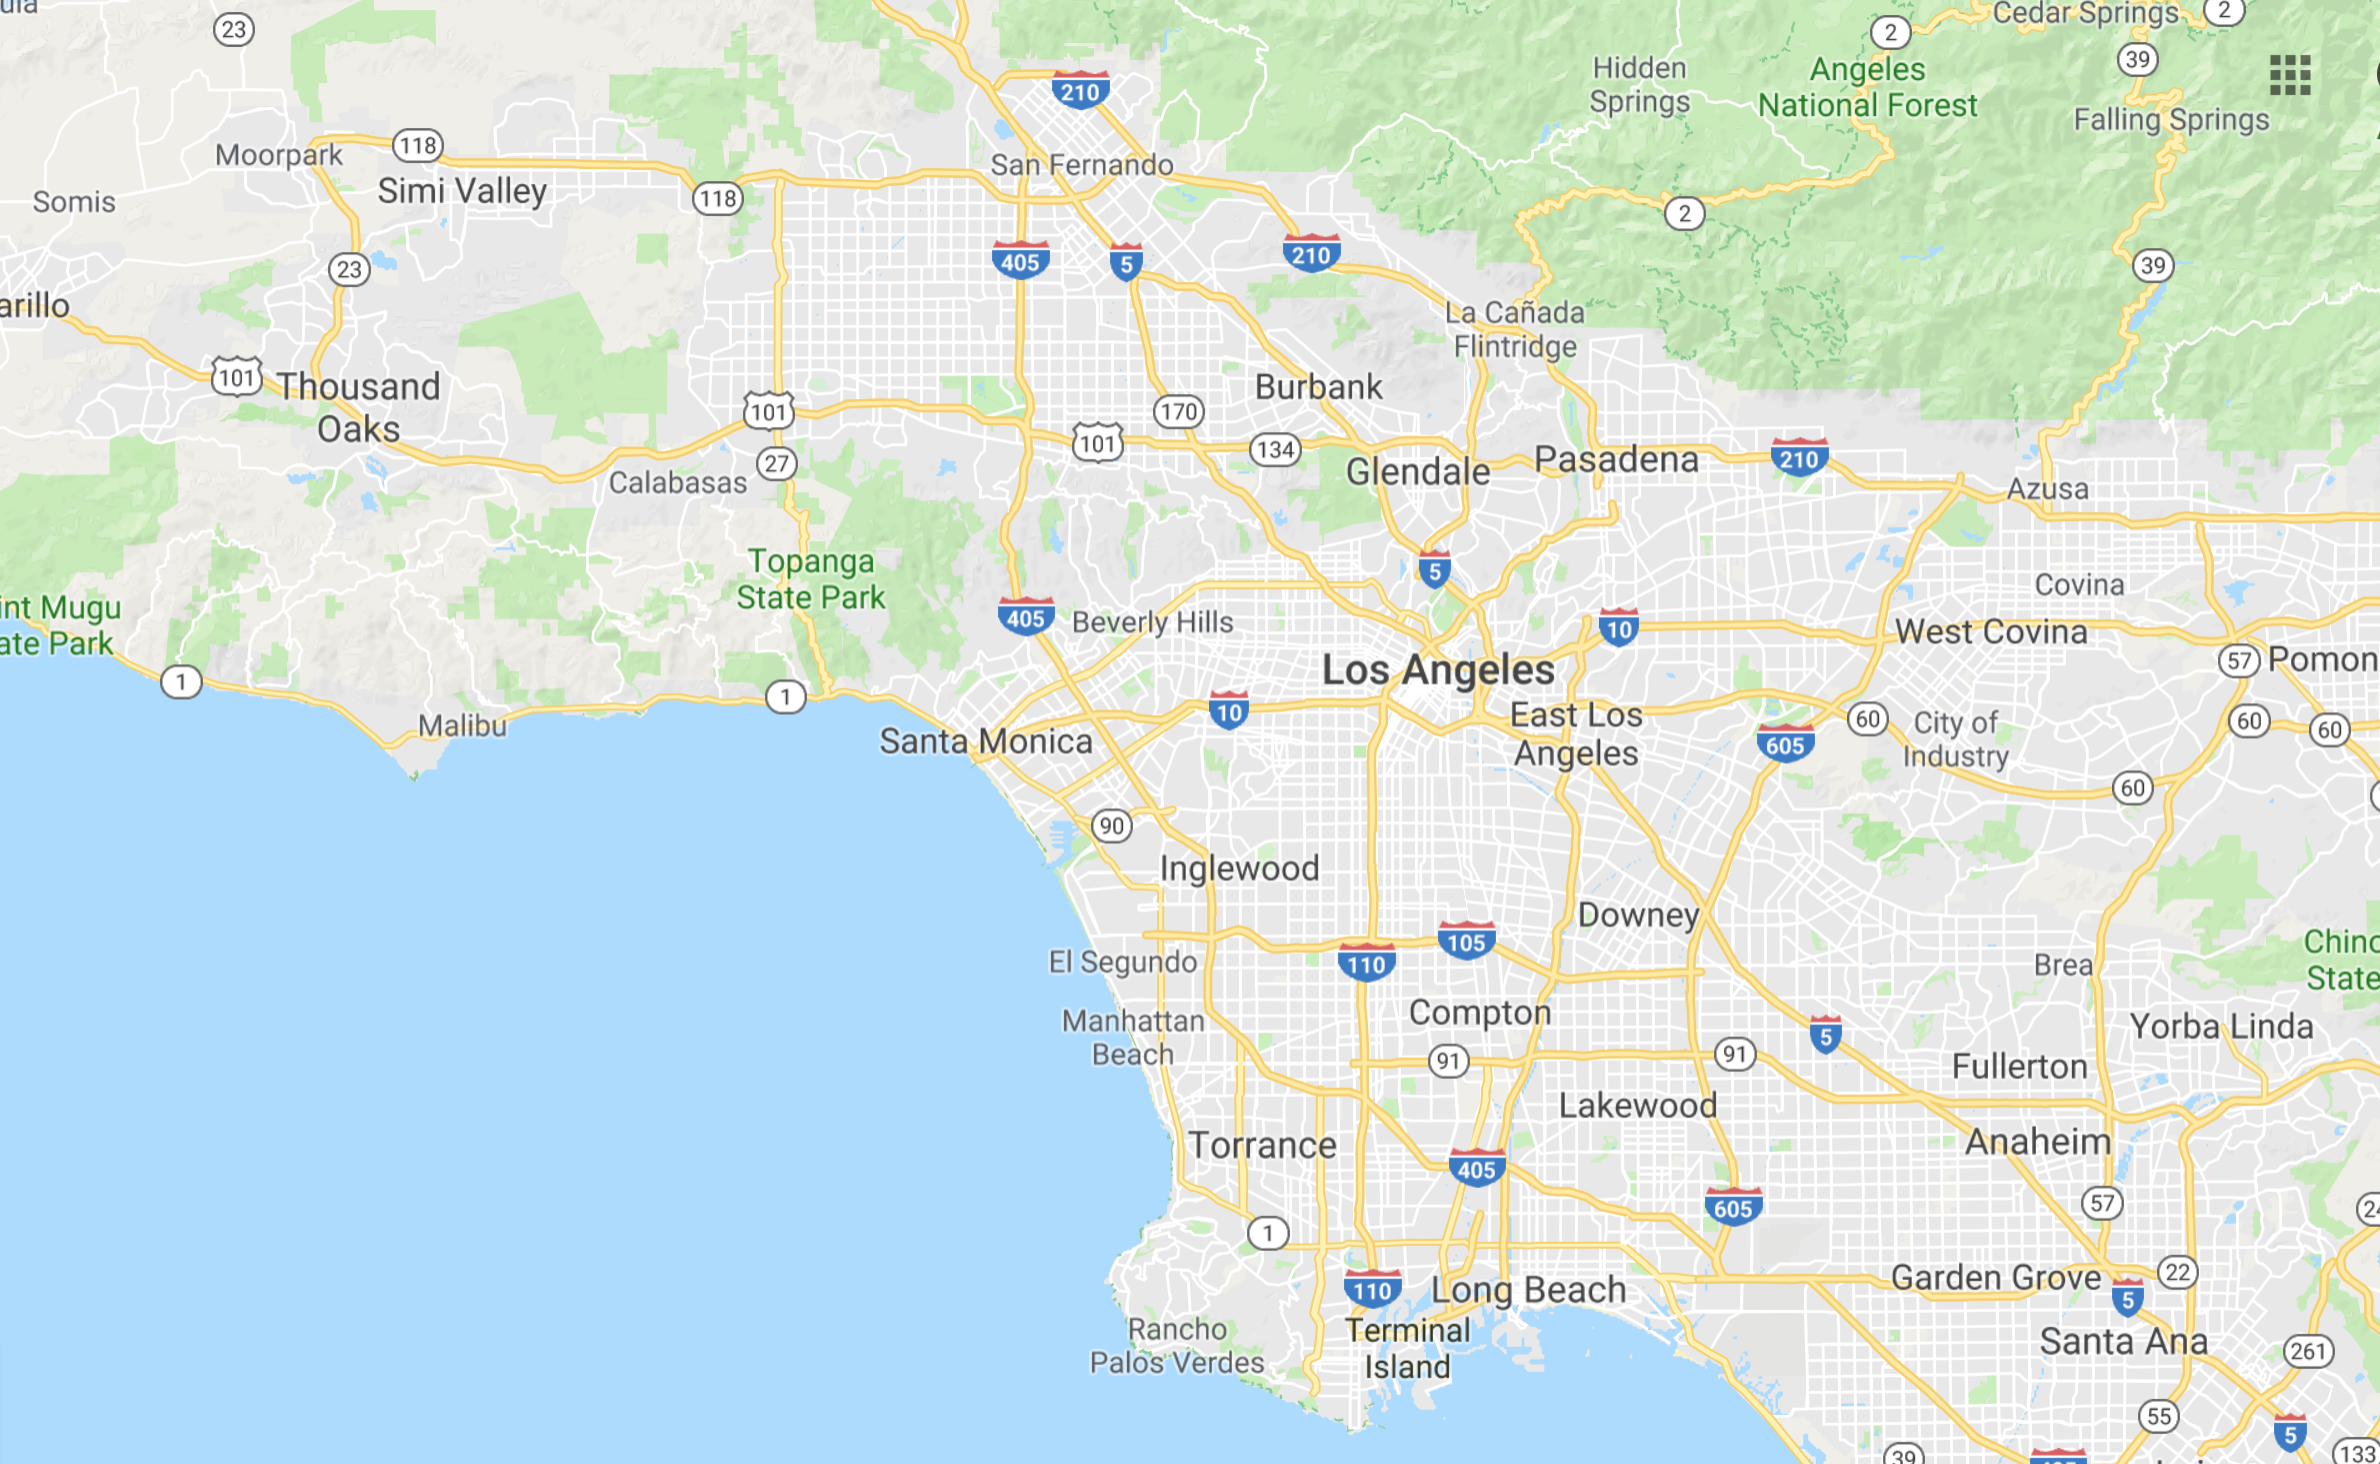
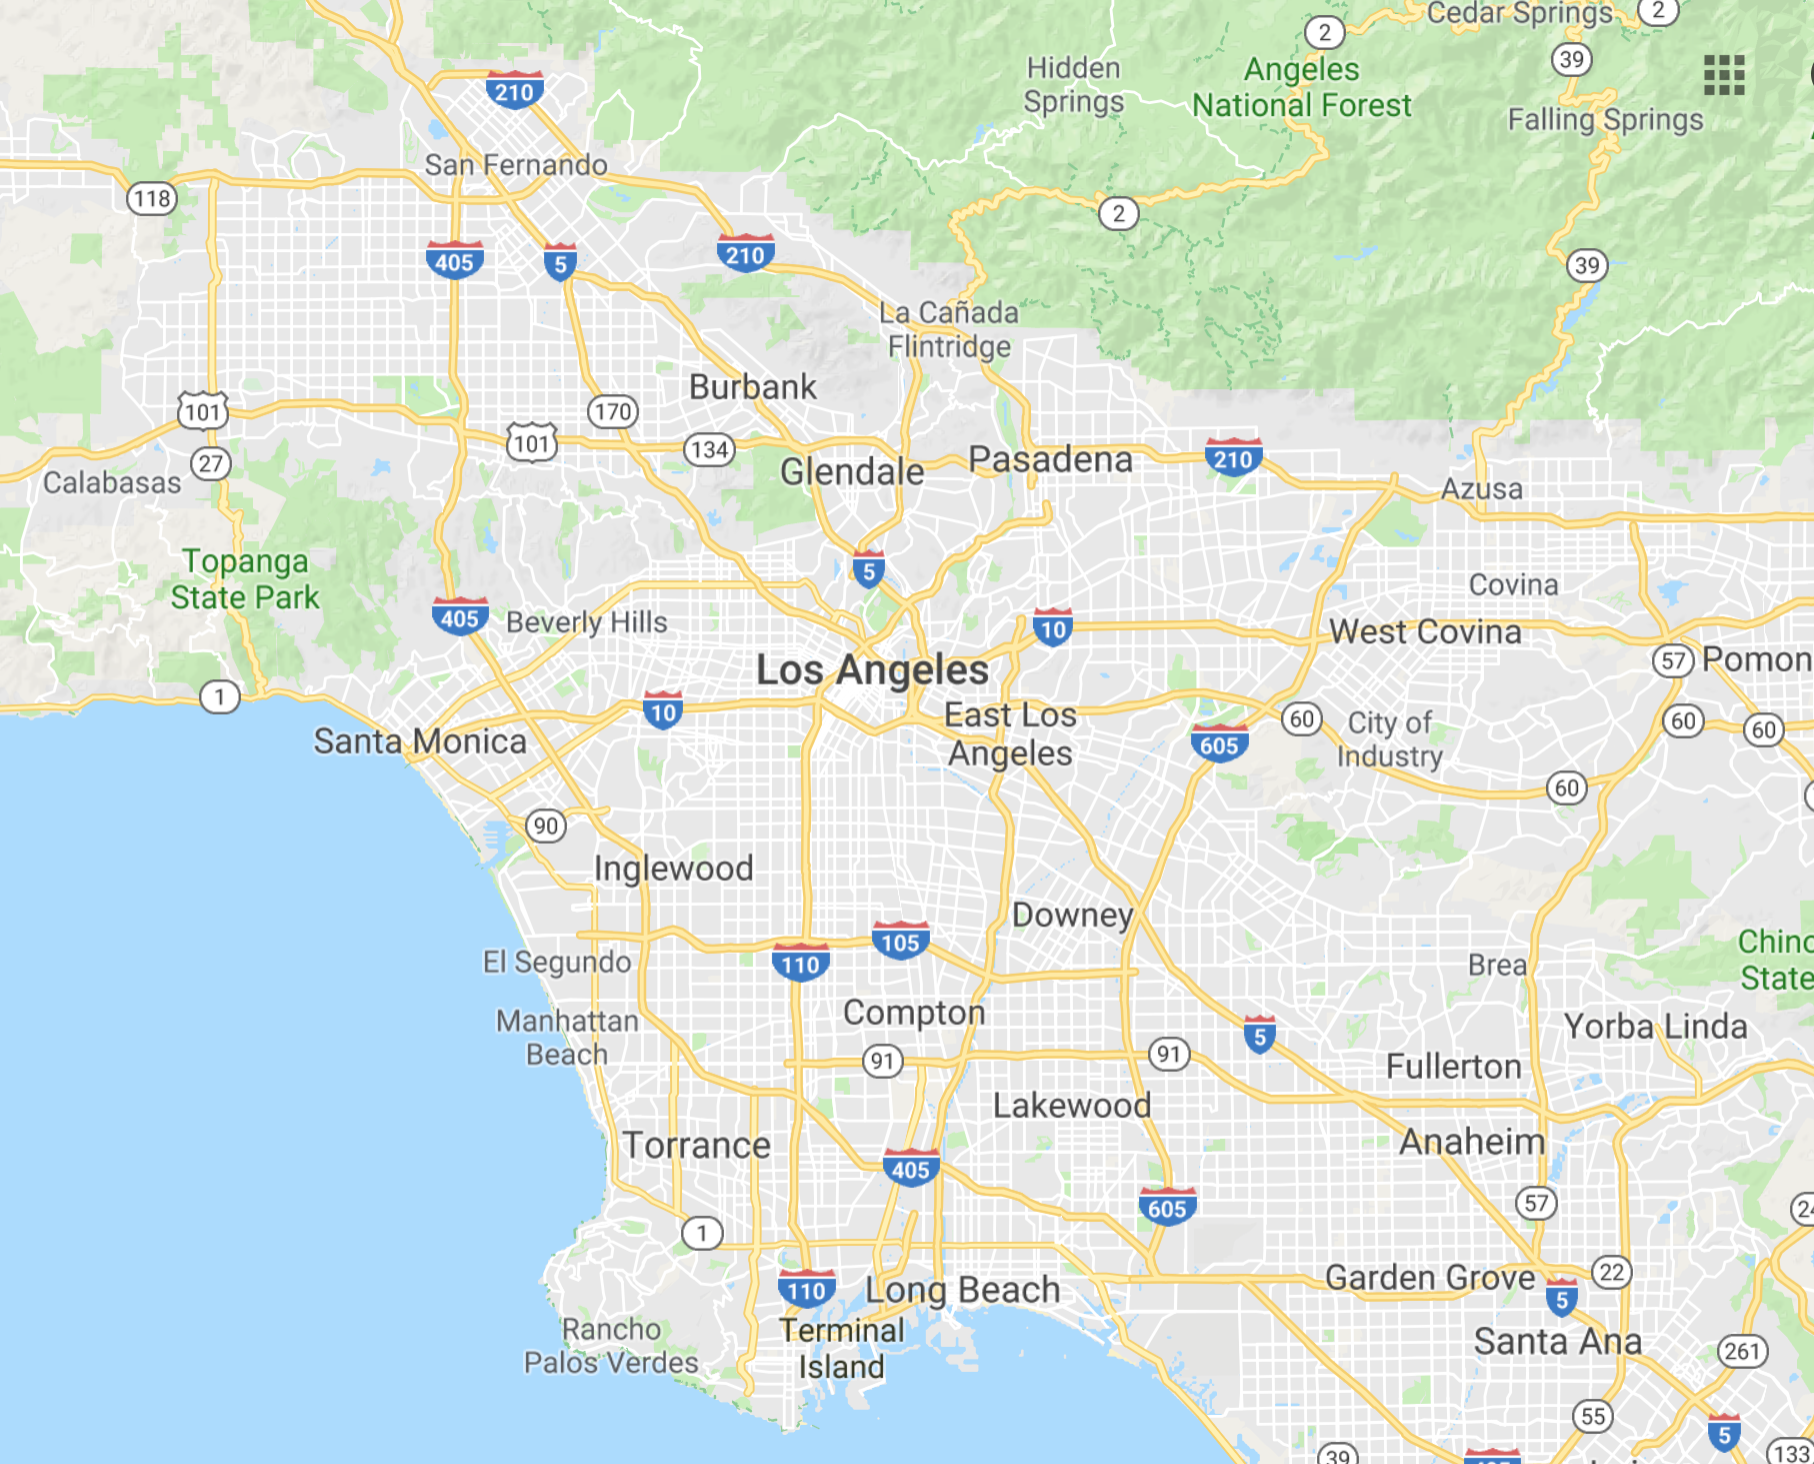
added map, modified free-ebook

diff --git a/V3/index.html b/V3/index.html
@@ -232,7 +232,7 @@
 						
 						<div class="col-sm-8">
 							<h5 ><strong>Step-by-step instructions</strong></h5>
-							<p>Detailed outlined set of steps and easy to follow instructions about what you sho8ild do if a pet goes missing</p>
+							<p>Detailed set of easy-to-follow instructions, Allowing you to find your pet quickly</p>
 						</div>
 					</div>
 				</div>
@@ -323,18 +323,20 @@
 		
 			<div class="row">
 		
-				<div class="col-md-8">
-					<!-- <h3>Sign up for free LostPetFinder Toolkit</h3> -->
-				</div>
+				<!-- <div class="col-md-8">
+					<h3>Sign up for free LostPetFinder Toolkit</h3>
+				</div> -->
 
-				<div class="col-md-4" id="signup">
+				<div class="col-12 col-lg-4 offset-lg-8" id="signup">
 
 					<div id="ebook-elements">
 						<h3>Sign up for free LostPetFinder Toolkit</h3>
 		
-						<p>includes step-by-step instructions on what to do when you realize your pet has gone missing.  checklist of necessary items, tips and tricks to quickly find your lost pet.  Lost pet posters and templates.  instructions on how to canvas the area and best practices to use throught your searcha and neighborhhood</p>
+						<p>includes step-by-step instructions on what to do when you realize your pet has gone missing.  checklist of necessary items, tips and tricks to quickly find your lost pet.</p>
+
+						<p>Lost pet posters and templates.  instructions on how to canvas the area and best practices to use throught your searcha and neighborhhood</p>
 			
-						<a href="#" class="btn btn-lg btn-success">Click here for free toolkit <i class="fa fa-arrow-circle-right fa-lg" aria-hidden="true"></i></a>
+						<a href="#" class="btn btn-lg btn-success" id="ebook-elements-button">Click here for free toolkit <i class="fa fa-arrow-circle-right fa-lg" aria-hidden="true"></i></a>
 
 					</div>
 		
@@ -513,7 +515,25 @@
 		</div>
 	</section>
 
+	<section id="map-section">
+		<div id="map">
+			<span>
+				<!-- <h2>Serving all of greater Los Angeles</h2> -->
 
+				<div class="container">
+					<div class="row">
+						
+						<div class="col-sm-12 text-center">
+							<a id="map-button" href="#" class="btn btn-lg btn-primary">Serving Greater Los Angeles </a>
+						</div>
+						
+					</div>
+				</div>
+
+				
+			</span>
+		</div>
+	</section>
 
 <!-- PEOPLE LOVE LOSTPETFINDER	 -->
 	<section id="people-love-LPF">

diff --git a/V3/style.css b/V3/style.css
@@ -65,8 +65,7 @@ header {
 }
 
 #signup {
-	text-align: center;
-    margin-top: 8rem;
+
 }
 
 #header-elements {
@@ -183,7 +182,7 @@ header {
 
 #lost-and-found {
 	padding-top: 1rem;
-	padding-bottom: 2rem;
+	/*padding-bottom: 2rem;*/
 	background: #f8fafd;
 
 }
@@ -205,6 +204,7 @@ header {
 
 #lost-and-found hr {
 	margin-top: 4rem;
+	margin-bottom: 0;
 
 }
 
@@ -238,8 +238,9 @@ header {
 
 
 #why-use {
-	background: #f8fafd; 
+	/*background: #f8fafd; */
 	padding-bottom: 3rem;
+	padding-top: 3rem;
 }
 
 #why-use h2 {
@@ -262,8 +263,17 @@ header {
 #free-ebook {}
 
 #ebook-elements {
-	border: 4px solid pink;
+	padding-top: 8rem;
+	font-family: 'PT Serif', serif;
+	font-weight: bold;
+	/*background: pink;*/
+	height: 40em;
+	/*border: 4px solid pink;*/
 	/*background: salmon;*/
+}
+
+#ebook-elements h3 {
+	font-weight: bold;
 }
 
 
@@ -291,10 +301,55 @@ header {
 }
 
 
+#map {
+	background: url(./images/map-los-angeles.png);
+	background-repeat: no-repeat;
+	background-attachment: left;
+	background-position: center;
+	background-size: cover;
+	height: 40em;
+}
+
+#map span {
+    display: block;
+    height: 40em;
+    background: rgba(0,0,0,0.1);
+}
+
+#map span:hover {
+    display: block;
+    height: 40em;
+    background: none;
+}
+
+#map h2 {
+	text-align: center;
+	font-weight: bold;
+	font-family: 'PT Serif', serif;
+	padding-top: 5rem;
+}
+
+#map-button {
+	margin-top: 32rem;
+	text-transform: capitalize;	
+	/*padding:1rem;*/
+	padding-left: 2rem;
+	padding-right: 2rem;
+}
+
+
+
+
+
+
+
+
+
 #people-love-LPF {
 	background-color: #f6f9fe;
 	padding-top: 4rem;
 	text-align:center;
+    padding-bottom: 4rem;
 
 	
 
@@ -417,10 +472,38 @@ footer h4 {
     	
 	}
 
+	#map-button {
+	margin-top: 32rem;
+	text-transform: capitalize;	
+	/*padding:1rem;*/
+/*	padding-left: 2rem;
+	padding-right: 2rem;*/
+	display: block;
+	}
 
+	#free-ebook {
 
+		box-shadow: none;
+		width: 100%;
+		text-align: center;
+	}
 
+	#map {
+		width: 100%;
 
+	}
 
+	#why-use-padded-container {
+		padding: 1rem;
+		text-align: center;
+	}
+	
+	#ebook-elements {
+		/*text-align: center;*/
+	}
+	
+	#ebook-elements-button {
+		display: block;
+	}
 
 }
